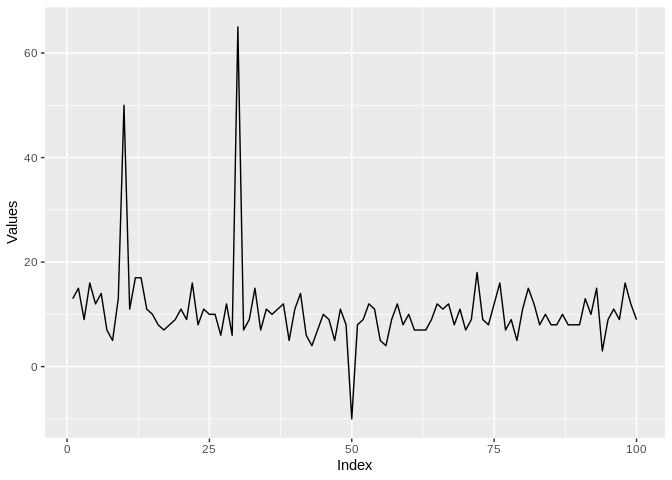
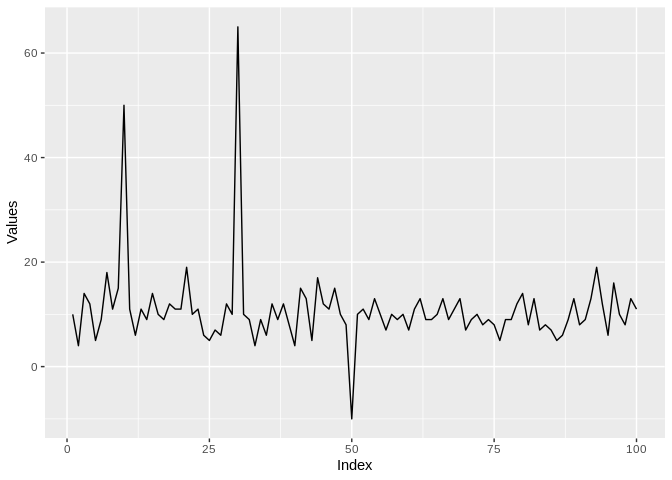
readme commits

Changed region(s): [[0.0938, 0.25, 0.9688, 0.7812]]

diff --git a/README.md b/README.md
@@ -5,7 +5,7 @@ DDMEutils - Repository of useful functions for daily analysis and R programming
 1 `insp_outlier()`
 ------------------
 
-Created by Gabriel Motta for outlier detection in time series, based on `anomalize` package. S3 methods are defined for `ts` and `data.frame` objects.
+Written by Gabriel Motta for outlier detection in time series, based on `anomalize` package. S3 methods are defined for `ts` and `data.frame` objects.
 
 ### Unidimensional time series
 
@@ -21,13 +21,13 @@ x_modif[49:55]
 ```
 
     ##          DATE SERIES IMPUTED_SERIES OUTLIER_FLAG
-    ## 1: 2018-10-21      8              8            0
-    ## 2: 2018-10-22    -10              8            1
-    ## 3: 2018-10-23      8              8            0
-    ## 4: 2018-10-24      9              9            0
-    ## 5: 2018-10-25     12             12            0
-    ## 6: 2018-10-26     11             11            0
-    ## 7: 2018-10-27      5              5            0
+    ## 1: 2018-10-23      8              8            0
+    ## 2: 2018-10-24    -10             10            1
+    ## 3: 2018-10-25     10             10            0
+    ## 4: 2018-10-26     11             11            0
+    ## 5: 2018-10-27      9              9            0
+    ## 6: 2018-10-28     13             13            0
+    ## 7: 2018-10-29     10             10            0
 
 ``` r
 x_modif %>% 
@@ -56,12 +56,12 @@ Example:
 d1[,1:10]
 ```
 
-    ##    ID       V1       V2       V3       V4       V5       V6       V7
-    ## 1:  1 13.00000 15.00000 9.000000 16.00000 12.00000 14.00000 7.000000
-    ## 2:  2 13.00321 15.85243 9.820114 16.33274 11.79309 16.36154 6.823636
+    ##    ID        V1       V2       V3       V4       V5      V6       V7
+    ## 1:  1 10.000000 4.000000 14.00000 12.00000 5.000000 9.00000 18.00000
+    ## 2:  2  9.957709 6.317304 12.56808 11.78547 4.101321 9.74964 18.89425
     ##          V8       V9
-    ## 1: 5.000000 13.00000
-    ## 2: 5.415589 15.25655
+    ## 1: 11.00000 15.00000
+    ## 2: 11.31764 16.10898
 
 ``` r
 # 'Wide' output format
@@ -71,16 +71,16 @@ insp_outlier(d1, margin = 1, idcol = 1) %>%
 ```
 
     ##     ID PERIOD    SERIES IMPUTED_SERIES OUTLIER_FLAG
-    ##  1:  1    V36 10.000000      10.000000            0
-    ##  2:  1    V41 14.000000      14.000000            0
-    ##  3:  1    V44  7.000000       7.000000            0
-    ##  4:  1    V80 11.000000      11.000000            0
-    ##  5:  1    V98 16.000000      16.000000            0
-    ##  6:  2    V17  5.373607       5.373607            0
-    ##  7:  2    V41 12.154600      12.154600            0
-    ##  8:  2    V57  9.334206       9.334206            0
-    ##  9:  2    V58 12.524598      12.524598            0
-    ## 10:  2    V74  8.554688       8.554688            0
+    ##  1:  1     V3 14.000000      14.000000            0
+    ##  2:  1    V35  6.000000       6.000000            0
+    ##  3:  1    V47 15.000000      15.000000            0
+    ##  4:  1     V5  5.000000       5.000000            0
+    ##  5:  1    V72 10.000000      10.000000            0
+    ##  6:  1    V91  9.000000       9.000000            0
+    ##  7:  1    V96 16.000000      16.000000            0
+    ##  8:  2    V43  5.502871       5.502871            0
+    ##  9:  2    V49  9.204284       9.204284            0
+    ## 10:  2     V9 16.108980      16.108980            0
 
 ``` r
 # 'Long' output format
@@ -90,16 +90,16 @@ insp_outlier(d1, margin = 1, out_format = "long") %>%
 ```
 
     ##     ID PERIOD OUTLIER_FLAG IMPUTED     VALUE
-    ##  1:  1    V57            0       1  9.000000
-    ##  2:  1    V64            0       1  9.000000
-    ##  3:  1    V76            0       0 16.000000
-    ##  4:  2    V13            0       1 17.805308
-    ##  5:  2    V18            0       0  6.813689
-    ##  6:  2    V25            0       0  9.436514
-    ##  7:  2    V72            0       1 18.137185
-    ##  8:  2    V75            0       1 12.419367
-    ##  9:  2    V85            0       1  9.821971
-    ## 10:  2    V99            0       1 11.604808
+    ##  1:  1    V32            0       1  9.000000
+    ##  2:  1    V62            0       0 13.000000
+    ##  3:  1    V64            0       1  9.000000
+    ##  4:  1    V69            0       0 13.000000
+    ##  5:  1    V91            0       1  9.000000
+    ##  6:  1    V95            0       1  6.000000
+    ##  7:  1    V99            0       1 13.000000
+    ##  8:  2    V25            0       1  2.684821
+    ##  9:  2    V40            0       1  4.097644
+    ## 10:  2    V85            0       0  7.252151
 
 #### Time series framed in cols
 
@@ -110,11 +110,11 @@ d2[1:5]
 ```
 
     ##          DATE SERIES1 SERIES2
-    ## 1: 2018-01-01      13 -0.4406
-    ## 2: 2018-01-02      15 -0.5089
-    ## 3: 2018-01-03       9 -0.9169
-    ## 4: 2018-01-04      16 -0.4337
-    ## 5: 2018-01-05      12  1.6234
+    ## 1: 2018-01-01      10  0.8031
+    ## 2: 2018-01-02       4 -0.0238
+    ## 3: 2018-01-03      14 -0.6241
+    ## 4: 2018-01-04      12 -1.2279
+    ## 5: 2018-01-05       5 -0.4120
 
 ``` r
 # 'Wide' output format
@@ -122,19 +122,19 @@ insp_outlier(d2, margin = 2, dtcol = 1) %>% head()
 ```
 
     ##          DATE SERIES1 IMPUTED_SERIES1 OUTLIER_FLAG_SERIES1 SERIES2
-    ## 1: 2018-01-01      13              13                    0 -0.4406
-    ## 2: 2018-01-02      15              15                    0 -0.5089
-    ## 3: 2018-01-03       9               9                    0 -0.9169
-    ## 4: 2018-01-04      16              16                    0 -0.4337
-    ## 5: 2018-01-05      12              12                    0  1.6234
-    ## 6: 2018-01-06      14              14                    0 -0.4083
+    ## 1: 2018-01-01      10              10                    0  0.8031
+    ## 2: 2018-01-02       4               4                    0 -0.0238
+    ## 3: 2018-01-03      14              14                    0 -0.6241
+    ## 4: 2018-01-04      12              12                    0 -1.2279
+    ## 5: 2018-01-05       5               5                    0 -0.4120
+    ## 6: 2018-01-06       9               9                    0  1.5456
     ##    IMPUTED_SERIES2 OUTLIER_FLAG_SERIES2
-    ## 1:         -0.4406                    0
-    ## 2:         -0.5089                    0
-    ## 3:         -0.9169                    0
-    ## 4:         -0.4337                    0
-    ## 5:          1.6234                    0
-    ## 6:         -0.4083                    0
+    ## 1:          0.8031                    0
+    ## 2:         -0.0238                    0
+    ## 3:         -0.6241                    0
+    ## 4:         -1.2279                    0
+    ## 5:         -0.4120                    0
+    ## 6:          1.5456                    0
 
 ``` r
 # 'Long' output format
@@ -144,19 +144,57 @@ insp_outlier(d2, margin = 2, dtcol = 1, out_format = "long") %>%
 ```
 
     ##           DATE  SERIES OUTLIER_FLAG IMPUTED   VALUE
-    ##  1: 2018-03-12 SERIES1            0       0  9.0000
-    ##  2: 2018-03-16 SERIES1            0       1 12.0000
-    ##  3: 2018-01-03 SERIES2            0       1 -0.9169
-    ##  4: 2018-01-05 SERIES2            0       0  1.6234
-    ##  5: 2018-02-02 SERIES2            0       1  2.0181
-    ##  6: 2018-02-03 SERIES2            0       0 -0.4724
-    ##  7: 2018-02-07 SERIES2            0       1 -0.3899
-    ##  8: 2018-03-06 SERIES2            0       0  0.1446
-    ##  9: 2018-03-23 SERIES2            0       1 -0.6911
-    ## 10: 2018-04-10 SERIES2            0       0  0.2083
+    ##  1: 2018-01-19 SERIES1            0       0 11.0000
+    ##  2: 2018-01-21 SERIES1            1       0 19.0000
+    ##  3: 2018-02-07 SERIES1            0       0 12.0000
+    ##  4: 2018-02-13 SERIES1            0       0 17.0000
+    ##  5: 2018-03-02 SERIES1            0       1 11.0000
+    ##  6: 2018-03-18 SERIES1            0       0  9.0000
+    ##  7: 2018-04-09 SERIES1            0       0 13.0000
+    ##  8: 2018-03-06 SERIES2            0       0  0.0758
+    ##  9: 2018-03-07 SERIES2            0       0 -1.0241
+    ## 10: 2018-03-09 SERIES2            1       1  0.0758
 
 2 `insp_seasonality()`
 ----------------------
+
+Written by Gabriel Motta for getting seasonality of time series, based on `forecast` package. S3 methods are defined for `ts` and `data.frame` objects.
+
+Options for `data.frame`: (check `args(insp_outlier.data.frame)` for defaults)
+
+-   `trend` T/F - if time series have trend;
+-   `margin`
+    -   `margin = 1` for series framed row-wise. In this case, specify as well an integer to an index column on `idcol`;
+    -   `margin = 2` for series framed col-wise. Specify an integer to an date column on `dtcol`;
+-   `periodicity` of the series
+
+### Example for `airquality` dataset:
+
+``` r
+data <- airquality %>% as.data.table()
+head(data)
+```
+
+    ##    Ozone Solar.R Wind Temp Month Day
+    ## 1:    41     190  7.4   67     5   1
+    ## 2:    36     118  8.0   72     5   2
+    ## 3:    12     149 12.6   74     5   3
+    ## 4:    18     313 11.5   62     5   4
+    ## 5:    NA      NA 14.3   56     5   5
+    ## 6:    28      NA 14.9   66     5   6
+
+``` r
+setorder(data, Month, Day)
+
+data[, .(Wind, Temp)] %>% 
+  insp_seasonality(margin = 2, dtcol = 0, periodicity = 'day')
+```
+
+    ##      ID SEASONALITY
+    ## 1: Wind         365
+    ## 2: Temp         365
+
+Considering we have daily observations and a total length no longer than a year for 'Wind' and 'Temp' variables, seasonality 365 means that no periods of seasonality were found.
 
 3 Value replacements with `subs_any()` and `subs_na()`
 ------------------------------------------------------
@@ -244,6 +282,128 @@ data %>%
 
 4 Cleaning text variables and column names with `clean()`
 ---------------------------------------------------------
+
+Methods for cleaning headers and text variables within data.frame. For `factor` objects, cleans levels attribute. Default replacements are stored in exported list `.dict`, where names `rm` and `undln` stand for 'remove' and 'underline' actions.
+
+``` r
+.dict
+```
+
+    ## $rm
+    ##  [1] "`" "^" "~" "×" "÷" "¡" "¢" "£" "¤" "¥" "¦" "§" "¨" "©" "ª" "«" "¬"
+    ## [18] "" "®" "¯" "±" "²" "³" "´" "µ" "¶" "·" "¸" "¹" "º" "»" "¼" "½" "¾"
+    ## [35] "¿"
+    ## 
+    ## $undln
+    ## [1] "/"   "\\." "-"   "\\s" "\\(" "\\)"
+    ## 
+    ## $a
+    ## [1] "à" "á" "â" "ã" "ä" "å"
+    ## 
+    ## $A
+    ## [1] "À" "Á" "Â" "Ã" "Ä" "Å"
+    ## 
+    ## $c
+    ## [1] "ç"
+    ## 
+    ## $C
+    ## [1] "Ç"
+    ## 
+    ## $e
+    ## [1] "è" "é" "ê" "ë"
+    ## 
+    ## $E
+    ## [1] "È" "É" "Ê" "Ë"
+    ## 
+    ## $i
+    ## [1] "ì" "í" "î" "ï"
+    ## 
+    ## $I
+    ## [1] "Ì" "Í" "Î" "Ï"
+    ## 
+    ## $o
+    ## [1] "ò" "ó" "ô" "õ" "ö" "ø"
+    ## 
+    ## $O
+    ## [1] "Ò" "Ó" "Ô" "Õ" "Ö" "Ø"
+    ## 
+    ## $u
+    ## [1] "ù" "ú" "û" "ü"
+    ## 
+    ## $U
+    ## [1] "Ù" "Ú" "Û" "Ü"
+
+``` r
+to_clean <- c('Header with Nº of meas./hour(in measurement unit)', 
+              '\u00c0rtificial p\u00fcnctuat\u00ead attribute')
+to_clean
+```
+
+    ## [1] "Header with Nº of meas./hour(in measurement unit)"
+    ## [2] "Àrtificial pünctuatêd attribute"
+
+``` r
+# S3 method for char 
+clean(to_clean)
+```
+
+    ## [1] "Header_with_N_of_meas_hour_in_measurement_unit"
+    ## [2] "Artificial_punctuated_attribute"
+
+Additional arguments:
+
+-   `keep` - vector of chars to remain unchanged;
+-   `add_repl` - named vector of additional replacements desired.
+
+``` r
+clean(to_clean, keep ='º')
+```
+
+    ## [1] "Header_with_Nº_of_meas_hour_in_measurement_unit"
+    ## [2] "Artificial_punctuated_attribute"
+
+``` r
+clean(to_clean, add_repl = c('H' = 'HHH'))
+```
+
+    ## [1] "HHHeader_with_N_of_meas_hour_in_measurement_unit"
+    ## [2] "Artificial_punctuated_attribute"
+
+For `data.frame`, further logical options are:
+
+-   `col_names` - T/F for changes in table header;
+-   `vars` - T/F for changes in table variables;
+-   `byref` - T/F if replacements are made by reference in the table.
+
+``` r
+df_to_clean <- data.table(
+  '"quoted name"' = 1,
+  'text' = LETTERS[1:5] %>% stringr::str_replace_all( c('C'='Ç', 'A' = '"An extract from a book"'))
+)
+
+df_to_clean
+```
+
+    ##    "quoted name"                     text
+    ## 1:             1 "An extract from a book"
+    ## 2:             1                        B
+    ## 3:             1                        Ç
+    ## 4:             1                        D
+    ## 5:             1                        E
+
+``` r
+# default: col_names = T, vars = F
+df_to_clean %>% 
+  clean(add_repl = c('"' = '')) %>% 
+  clean(vars = T, col_names = F, keep = '\\s')
+```
+
+    ##    quoted_name                     text
+    ## 1:           1 "An extract from a book"
+    ## 2:           1                        B
+    ## 3:           1                        C
+    ## 4:           1                        D
+    ## 5:           1                        E
 
 5 Helpers for dealing with NA: `na_prop()` and `na_input()`
 -----------------------------------------------------------
